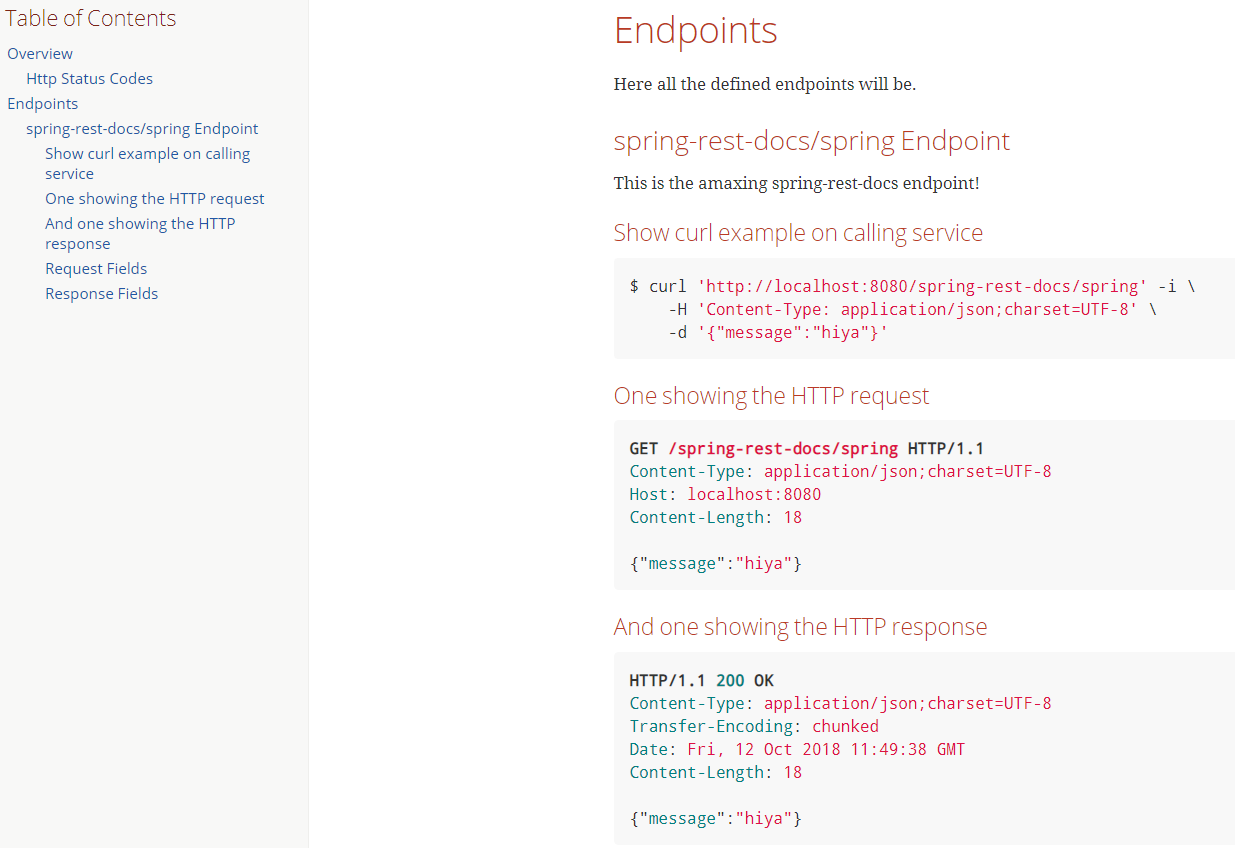
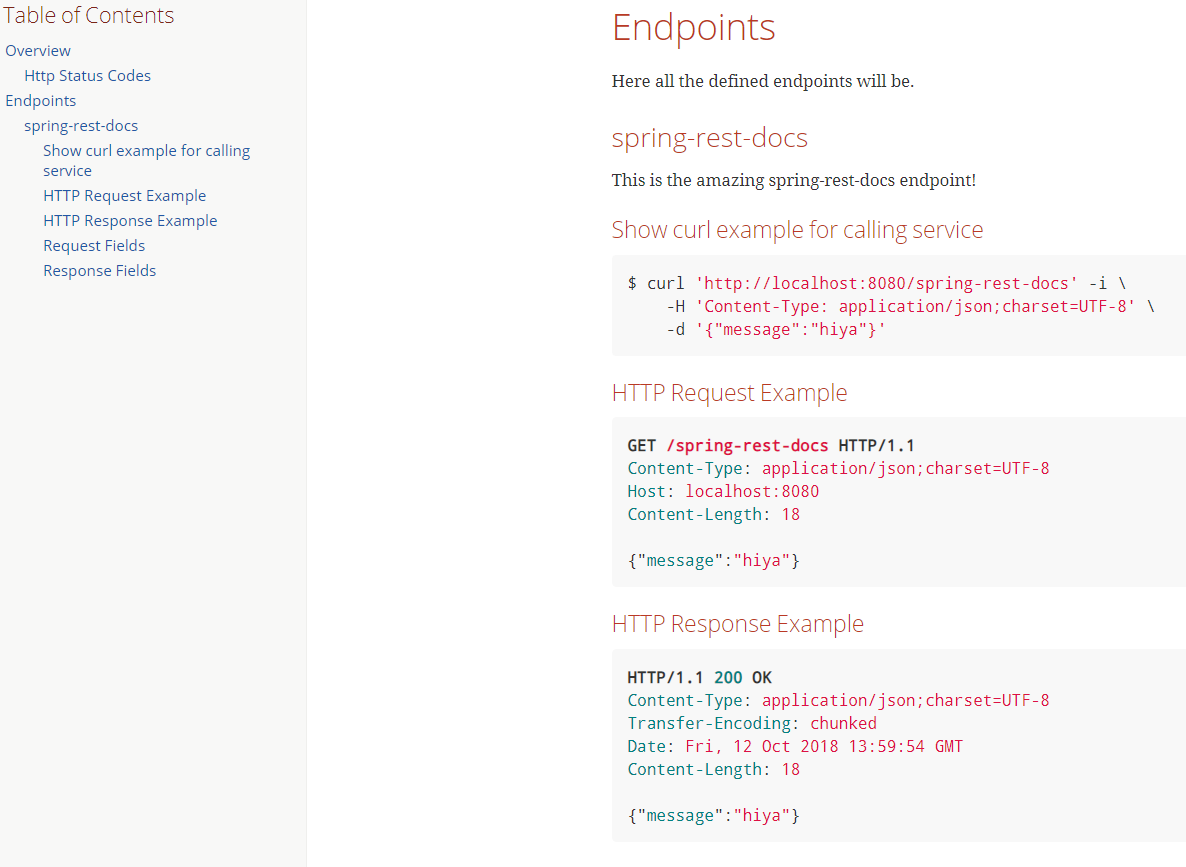
Simplified some stuff for hellodocs

diff --git a/hellodocs/src/main/java/se/david/labs/swagger/SwaggerifiedController.java b/hellodocs/src/main/java/se/david/labs/swagger/SwaggerifiedController.java
@@ -1,37 +1,26 @@
 package se.david.labs.swagger;
 
-import io.swagger.annotations.*;
+import io.swagger.annotations.ApiOperation;
+import io.swagger.annotations.ApiResponse;
+import io.swagger.annotations.ApiResponses;
 import org.springframework.http.MediaType;
 import org.springframework.http.ResponseEntity;
 import org.springframework.web.bind.annotation.GetMapping;
 import org.springframework.web.bind.annotation.RequestBody;
-import org.springframework.web.bind.annotation.RequestMapping;
 import org.springframework.web.bind.annotation.RestController;
 import se.david.labs.RequestResponse;
 import springfox.documentation.swagger2.annotations.EnableSwagger2;
 
 @RestController
-@RequestMapping(path = "/swagger")
 @EnableSwagger2
 public class SwaggerifiedController {
     @ApiOperation(value = "Calling swagger endpoint, that only responds back with the value in request")
-    @ApiImplicitParams(value = {
-            @ApiImplicitParam(name = "RequestObject",
-                    value = "Request Object",
-                    required = true,
-                    examples = @Example(
-                            value = @ExampleProperty(
-                                    mediaType = MediaType.APPLICATION_JSON_UTF8_VALUE,
-                                    value = "{\"message\": \"hello\"}")),
-                    dataTypeClass = RequestResponse.class,
-                    paramType = "body")
-    })
     @ApiResponses(value = {
             @ApiResponse(code = 200, message = "Query was successful, response in body", response = RequestResponse.class),
             @ApiResponse(code = 400, message = "Bad Request"),
             @ApiResponse(code = 500, message = "Internal Server Error")
     })
-    @GetMapping(value = "/swag",
+    @GetMapping(value = "/swagger",
             consumes = MediaType.APPLICATION_JSON_UTF8_VALUE,
             produces = MediaType.APPLICATION_JSON_UTF8_VALUE)
     ResponseEntity<RequestResponse> swagger(@RequestBody RequestResponse request) {

diff --git a/hellodocs/src/test/java/se/david/labs/BestTest.java b/hellodocs/src/test/java/se/david/labs/BestTest.java
@@ -57,7 +57,7 @@ public class BestTest {
     public void testSwaggerEndpoint() {
         RequestResponse response = given().header(HttpHeaders.CONTENT_TYPE, MediaType.APPLICATION_JSON_UTF8_VALUE)
                 .body(new RequestResponse("hiya"))
-                .when().get("/swagger/swag")
+                .when().get("/swagger")
                 .then().statusCode(HttpStatus.OK.value())
                 .header(HttpHeaders.CONTENT_TYPE, MediaType.APPLICATION_JSON_UTF8_VALUE)
                 .extract().body().as(RequestResponse.class);
@@ -77,7 +77,7 @@ public class BestTest {
                                 fieldWithPath("message").description("Message from request being reused in response"))))
                 .header(HttpHeaders.CONTENT_TYPE, MediaType.APPLICATION_JSON_UTF8_VALUE)
                 .body(new RequestResponse("hiya"))
-                .when().get("/spring-rest-docs/spring")
+                .when().get("/spring-rest-docs")
                 .then().statusCode(HttpStatus.OK.value())
                 .header(HttpHeaders.CONTENT_TYPE, MediaType.APPLICATION_JSON_UTF8_VALUE)
                 .body("message", CoreMatchers.equalTo("hiya"));

diff --git a/hellodocs/src/main/java/se/david/labs/springrestdocs/SpringDocsController.java b/hellodocs/src/main/java/se/david/labs/springrestdocs/SpringDocsController.java
@@ -2,13 +2,14 @@ package se.david.labs.springrestdocs;
 
 import org.springframework.http.MediaType;
 import org.springframework.http.ResponseEntity;
-import org.springframework.web.bind.annotation.*;
+import org.springframework.web.bind.annotation.GetMapping;
+import org.springframework.web.bind.annotation.RequestBody;
+import org.springframework.web.bind.annotation.RestController;
 import se.david.labs.RequestResponse;
 
 @RestController
-@RequestMapping(path = "/spring-rest-docs")
 public class SpringDocsController {
-    @GetMapping(path = "/spring",
+    @GetMapping(path = "/spring-rest-docs",
             consumes = MediaType.APPLICATION_JSON_UTF8_VALUE,
             produces = MediaType.APPLICATION_JSON_UTF8_VALUE)
     ResponseEntity<RequestResponse> springRestDocs(@RequestBody RequestResponse request) {

diff --git a/hellodocs/src/main/java/se/david/labs/RequestResponse.java b/hellodocs/src/main/java/se/david/labs/RequestResponse.java
@@ -1,6 +1,9 @@
 package se.david.labs;
 
+import io.swagger.annotations.ApiModelProperty;
+
 public class RequestResponse {
+    @ApiModelProperty(example = "Hello")
     private String message;
 
     public RequestResponse() {
